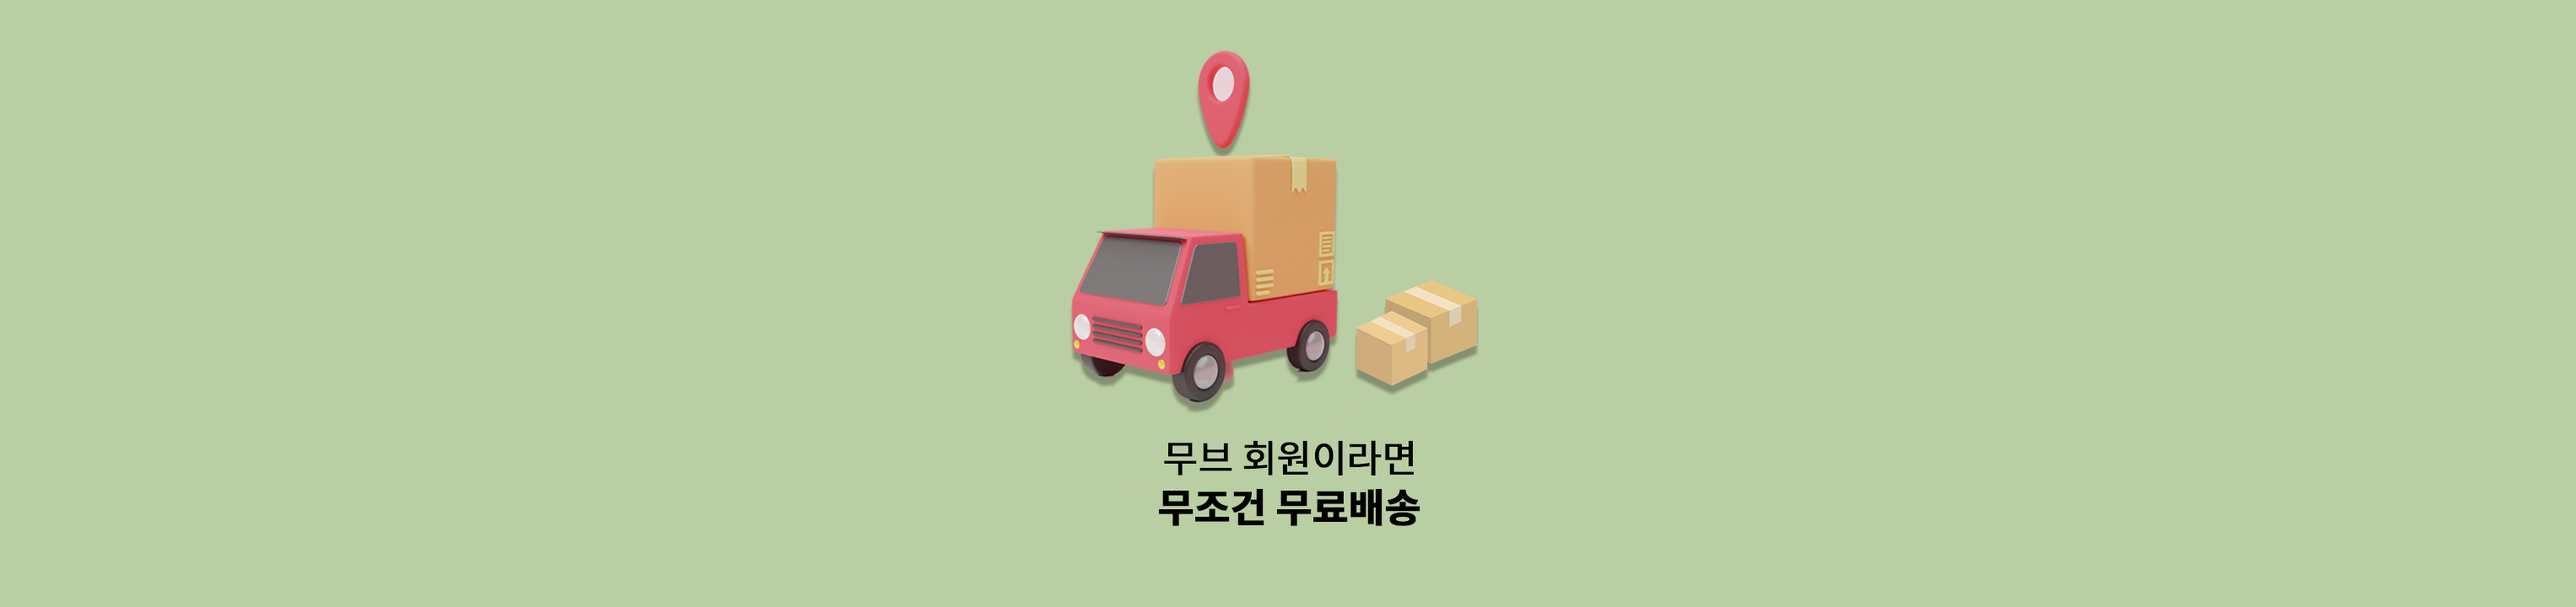
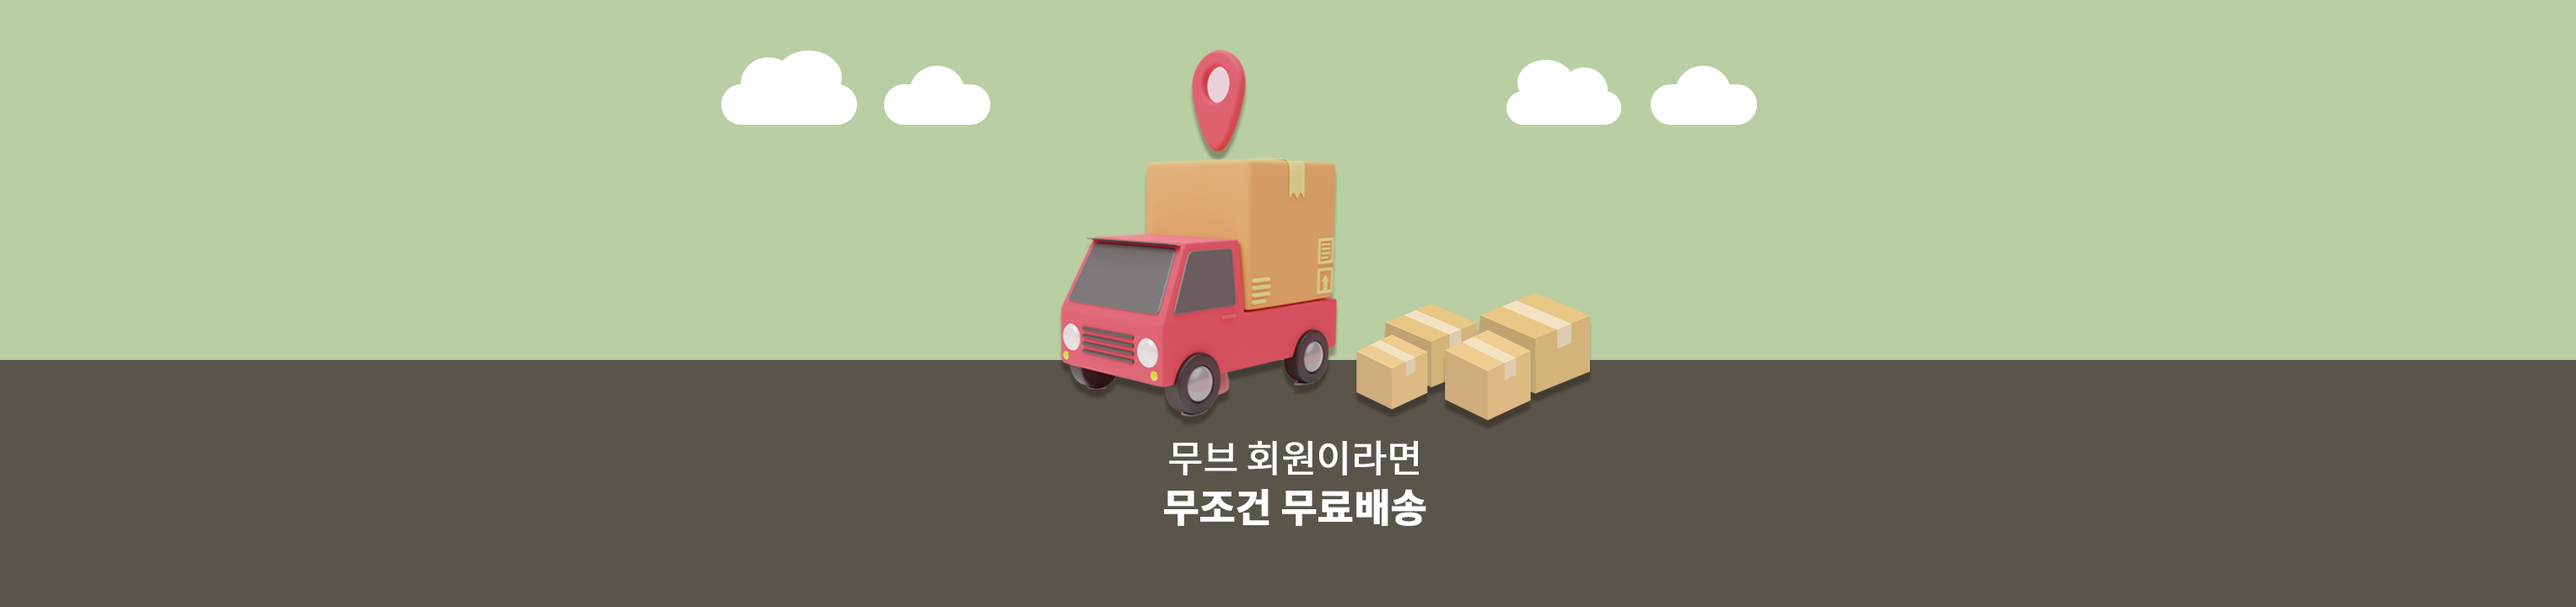
- 로그인페이지, 배너수정

diff --git a/features/login/login-form/ui/login-form.tsx b/features/login/login-form/ui/login-form.tsx
@@ -12,7 +12,8 @@ import { useLoginStore } from '@/features/login/model/store';
 import { useLoginMutation } from '@/features/login/model/queries';
 import { loginSchema } from '../../model/schema';
 import type { LoginFormData } from '../../model/types';
-import { useTheme } from '@/hooks/useTheme'
+import { useTheme } from '@/hooks/useTheme';
+import Image from 'next/Image';
 
 // const { isDark, toggleTheme } = useTheme();
 
@@ -53,32 +54,35 @@ export function LoginForm() {
 
   return (
     <form className="space-y-4" onSubmit={handleSubmit(onSubmit)}>
+      <div className="flex justify-center mb-8">
+        <Image src="/images/muve_logo.png" alt="로고" width={140} height={140} />
+        </div>
       <div>
-        <Label htmlFor="email" className="block text-sm font-medium text-gray-700 dark:text-gray-200">
+        {/* <Label htmlFor="email" className="block text-sm font-medium text-gray-700 dark:text-gray-200">
           이메일
-        </Label>
+        </Label> */}
         <Input
           id="email"
           type="email"
           {...register('email')}
           placeholder="이메일을 입력하세요"
-          className="mt-1 block w-full dark:bg-gray-700 dark:border-gray-600 dark:placeholder-gray-400 dark:text-white"
+          className="inputUnderline mt-1 block w-full dark:bg-gray-700 dark:border-gray-600 dark:placeholder-gray-400 dark:text-white"
         />
         {errors.email && (
           <p className="mt-1 text-sm text-red-600">{errors.email.message}</p>
         )}
       </div>
 
-      <div>
-        <Label htmlFor="password" className="block text-sm font-medium text-gray-700 dark:text-gray-200">
+      <div className="my-12">
+        {/* <Label htmlFor="password" className="block text-sm font-medium text-gray-700 dark:text-gray-200">
           비밀번호
-        </Label>
+        </Label> */}
         <Input
           id="password"
           type="password"
           {...register('password')}
           placeholder="비밀번호를 입력하세요"
-          className="mt-1 block w-full dark:bg-gray-700 dark:border-gray-600 dark:placeholder-gray-400 dark:text-white"
+          className="inputUnderline mt-1 block w-full dark:bg-gray-700 dark:border-gray-600 dark:placeholder-gray-400 dark:text-white"
         />
         {errors.password && (
           <p className="mt-1 text-sm text-red-600">{errors.password.message}</p>
@@ -97,26 +101,25 @@ export function LoginForm() {
         {loginMutation.isPending ? '로그인 중...' : '로그인'}
       </Button>
 
-      <div className="mt-4 text-center">
+    <div className='flex justify-between items-center'>
+    <div className="text-center">
         <Link
           href="/forgot-password"
           className="text-sm text-primary hover:underline dark:text-white"
         >
-          비밀번호를 잊으셨나요?
+          이메일/비밀번호 찾기
         </Link>
       </div>
-
-      <div className="mt-6 text-center">
-        <p className="text-sm text-gray-600 dark:text-gray-300">
-          계정이 없으신가요?
-        </p>
+      <hr/>
+      <div className="text-center">
         <Link
           href="/join"
-          className="text-sm text-blue-600 hover:underline dark:text-white"
+          className="text-sm text-primary hover:underline dark:text-white"
         >
           회원가입
         </Link>
       </div>
+    </div>
     </form>
   );
 }

diff --git a/components/HeroSection.tsx b/components/HeroSection.tsx
@@ -30,17 +30,12 @@ export function HeroSection() {
   const slides = [
     {
       image: '/images/muve_banner.png',
-      // title: '2024 BEST BRAND',
-      // description: '시즌오프 상품 행사 진행중',
-      // buttonText: '지금 구매하기',
-      // buttonLink: '/',
     },
     {
       image: '/images/muve_banner2.png',
-      // title: 'NEW ARRIVALS',
-      // description: '최신 상품을 만나보세요!',
-      // buttonText: '자세히 보기',
-      // buttonLink: '/',
+    },
+    {
+      image: '/images/muve_banner3.png',
     },
   ];
 
@@ -50,7 +45,7 @@ export function HeroSection() {
   useEffect(() => {
     const img = new window.Image()
     img.onload = () => setLogoLoaded(true)
-    img.src = "/images/logo.png"
+    img.src = "/images/muve_logo.png"
   }, [])
 
   useEffect(() => {
@@ -95,10 +90,10 @@ export function HeroSection() {
       
       <div className="container-fluid mx-auto px-4 bg-white fixed top-0 left-0 right-0 z-50" style={{height:'4rem'}}>
         <nav style={{zIndex:'98'}} className={`flex items-center justify-between py-3 relative`}>
-          <Link href="/" className="flex items-center z-30">
+          <Link href="/" className="flex items-center z-99">
             {!logoLoaded ? null : (
               <div className="relative w-28 h-10">
-                <Image src="/images/logo.png" alt="muve_logo" style={{zIndex: '99'}} fill className="object-contain" />
+                <Image src="/images/muve_logo.png" alt="muve_logo" style={{zIndex: '99'}} fill className="object-contain" />
               </div>
             )}
           </Link>

diff --git a/styles/globals.css b/styles/globals.css
@@ -6,7 +6,8 @@
   :root {
     --background: 0 0% 100%;
     --foreground: 222.2 84% 4.9%;
-    --secondary-text: 0 0% 42%;  /* #6a6a6a in HSL format */
+    --secondary-text: 0 0% 42%;
+    /* #6a6a6a in HSL format */
     --card: 0 0% 100%;
     --card-foreground: 222.2 84% 4.9%;
     --popover: 0 0% 100%;
@@ -75,6 +76,7 @@
   * {
     @apply border-border;
   }
+
   body {
     @apply bg-background text-foreground;
   }
@@ -237,6 +239,19 @@ a.text-primary:hover {
 
 .inputCustom {
   padding: 10px 20px;
+}
+
+.inputUnderline {
+  border: none !important;
+  border-radius: 0 !important;
+  border-bottom: 2px solid #ccc !important;
+}
+
+.inputUnderline:focus,
+.inputUnderline:focus-visible {
+  border-color: #6c8263 !important;
+  outline: none !important;
+  box-shadow: none !important;
 }
 
 .tab-trigger[data-selected] {

diff --git a/components/SearchBar.tsx b/components/SearchBar.tsx
@@ -49,7 +49,7 @@ export function SearchBar() {
             onFocus={() => setIsFilterVisible(true)}
             onBlur={() => setIsFilterVisible(false)}
             onChange={(e) => setSearchTerm(e.target.value)}
-            className={`pl-4 pr-10 py-2 w-full text-gray-800 rounded-full border-2 ${isScrolled ? 'py-1' : 'py-2 h-14'} transition-all duration-300`}
+            className={`pl-4 pr-10 py-2 w-full text-gray-800 rounded-full border-2 ${isScrolled ? 'py-1' : 'py-2 h-14'} transition-all duration-300  border-primary`}
           />
           <Search
             className="absolute right-3 top-1/2 transform -translate-y-1/2 cursor-pointer text-primary transition-transform duration-300" style={{zIndex:'99'}}

diff --git a/app/login/page.tsx b/app/login/page.tsx
@@ -8,7 +8,7 @@ export default function LoginPage() {
   return (
     <div className="min-h-screen flex flex-col bg-gradient-to-b from-gray-50 to-white dark:from-blue-900 dark:to-black-800">
       <HeroSection />
-      <main className="flex-grow container max-w-2xl mx-auto px-6 py-32">
+      <main className="flex-grow container max-w-2xl mt-16 mx-auto px-8 py-32">
         <LoginForm />
       </main>
       <Footer />
